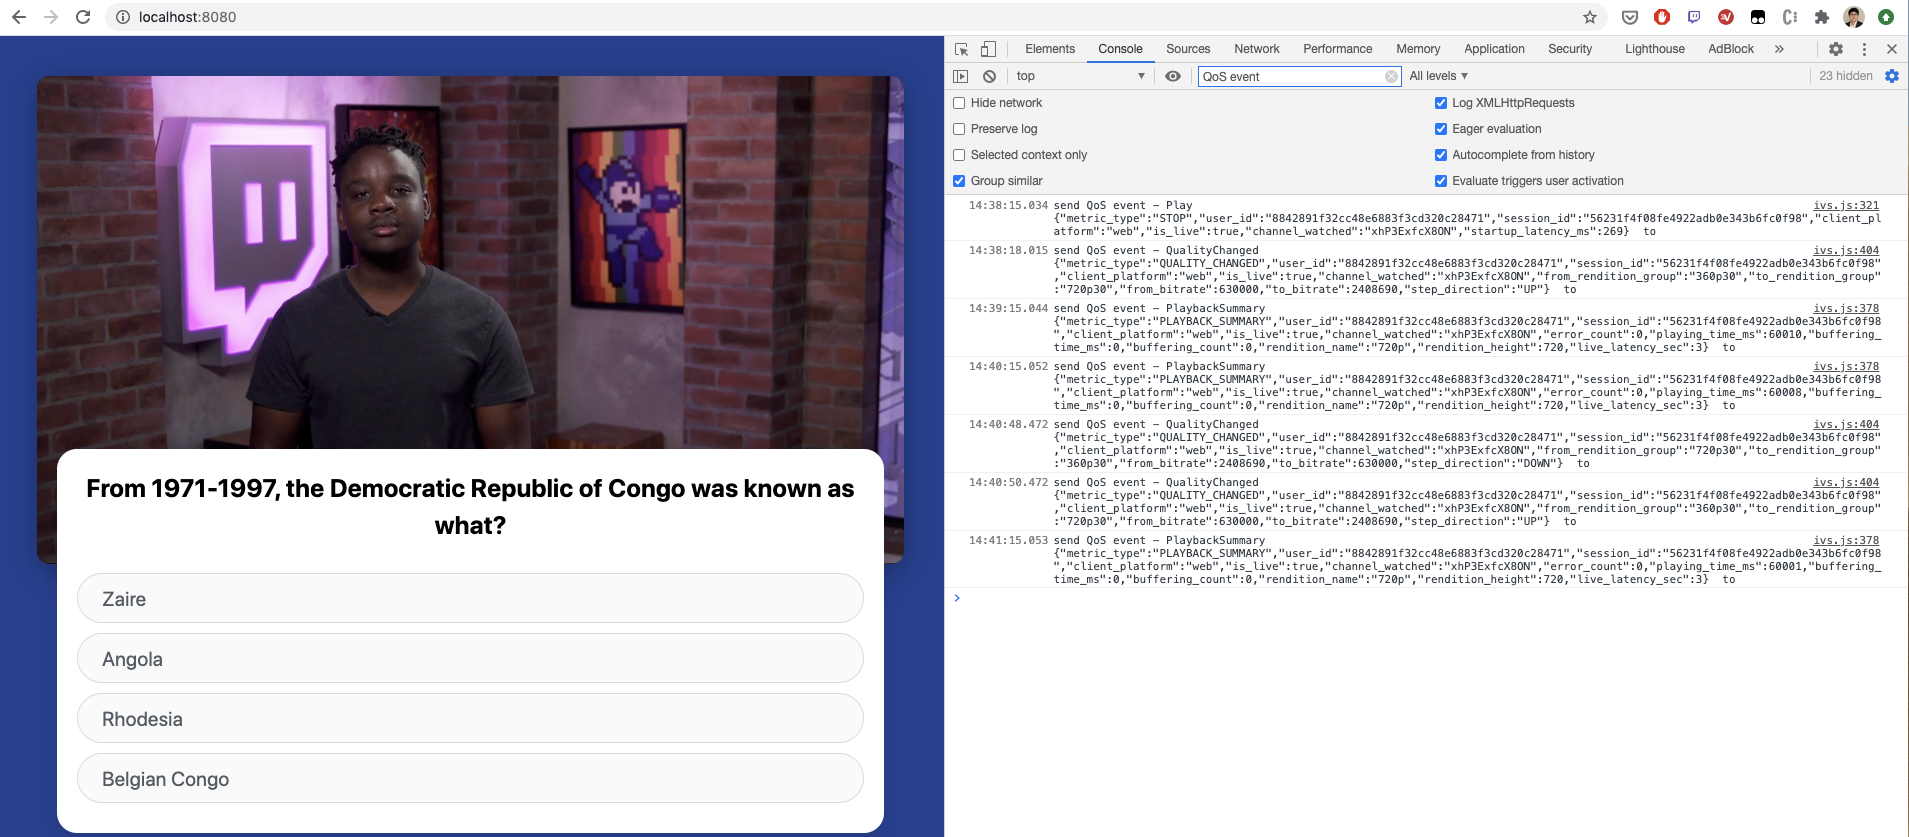
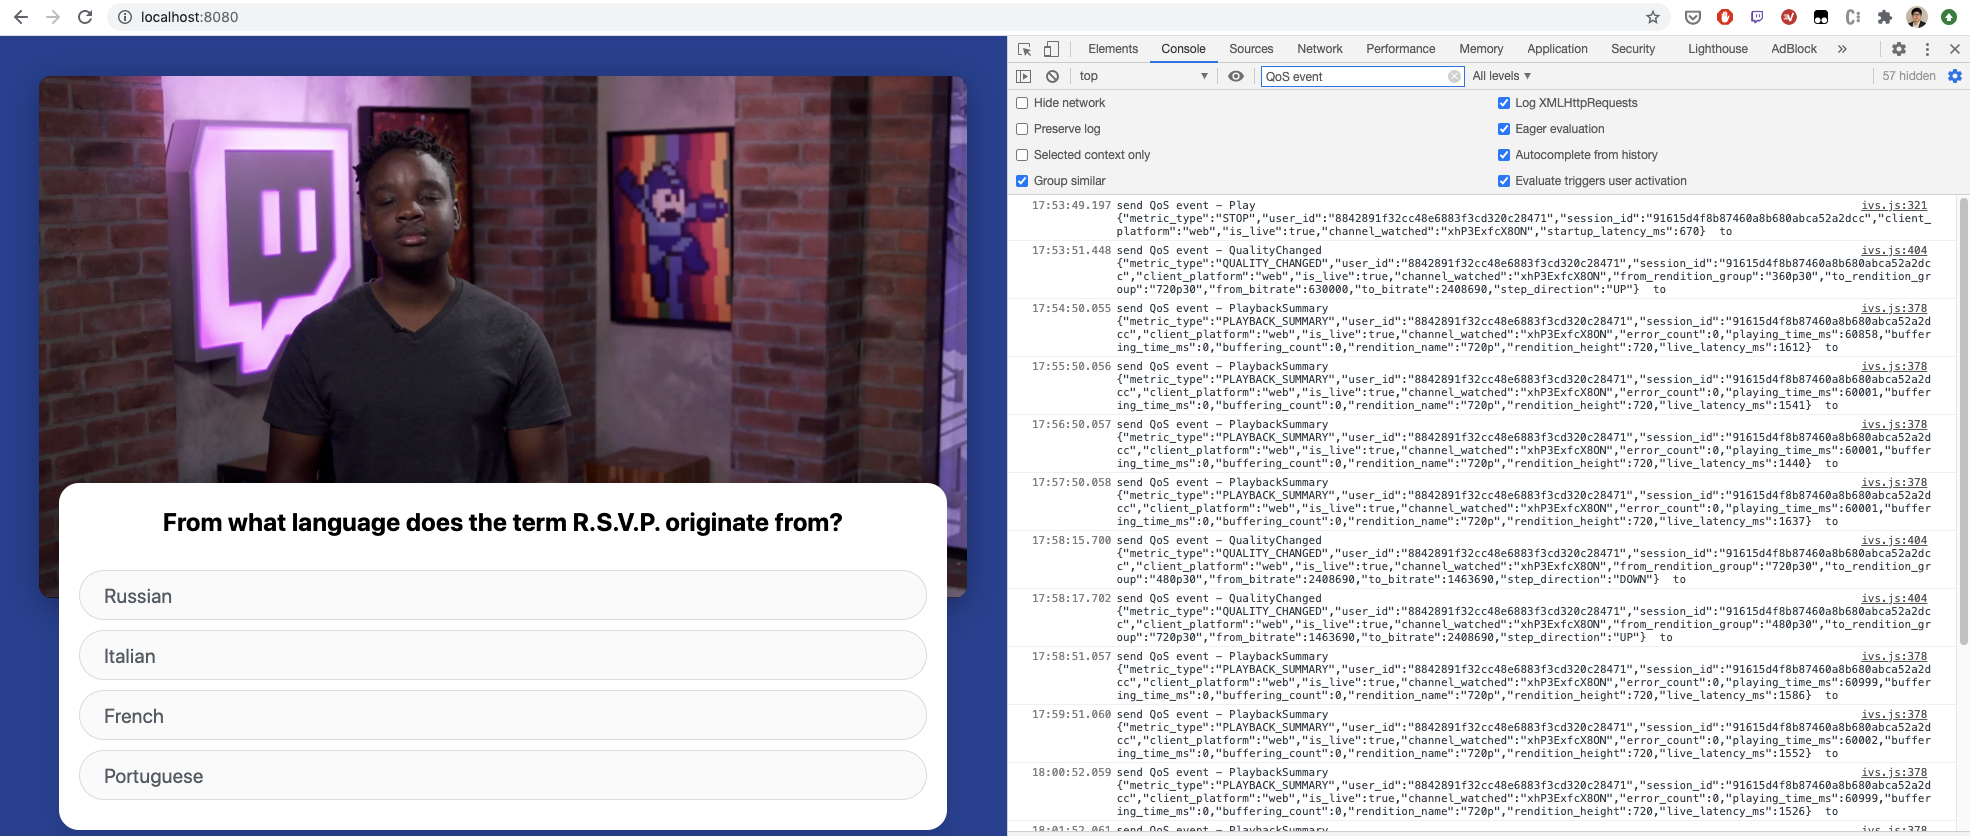
work in progress

diff --git a/web/IVSplayer/js/ivs.js b/web/IVSplayer/js/ivs.js
@@ -366,7 +366,7 @@ const cardInnerEl = document.getElementById("card-inner");
       myJson.rendition_name = lastQuality.name;
       myJson.rendition_height = lastQuality.height;
       if (myJson.is_live) {
-        myJson.live_latency_sec = Math.round(player.getLiveLatency());
+        myJson.live_latency_ms = Math.round(player.getLiveLatency()*1000);
       } else {
         myJson.live_latency_sec = -1;
       }

diff --git a/web/IVSplayer/README.md b/web/IVSplayer/README.md
@@ -238,24 +238,40 @@ Test plan:
 
 - #3 Changing network contiion - Start from throttled 1mbps, then unthrottle the bandwidth after seeing the 2nd QoS event.
 
-Reference test result:
+Reference test result #1:
 
 | Test Case | Which QoS Event | Expected *startupLatencyMs* | *playingTimeMs* | *bufferingTimeMs* | *renditionHeight* | *LiveLatencyMs* | *errorCount* |
 | --------- | --------------- | --------------------------- | --------------- | ----------------- | --------------- | --------------- | ------------ |
 | #1 | 1st       | ~2s | ~58s | ~0s | 720 | ~3s | ~0 |
 |    | Following | 0s  | ~60s | ~0s | 720 | ~3s | ~0 |
+
+Reference screenshots of the console output #1:
+
+![Screenshot of Console Output for Test Case 1](./README_images/section2dot2_2.png)
+
+Reference test result #2:
+
+| Test Case | Which QoS Event | Expected *startupLatencyMs* | *playingTimeMs* | *bufferingTimeMs* | *renditionHeight* | *LiveLatencyMs* | *errorCount* |
+| --------- | --------------- | --------------------------- | --------------- | ----------------- | --------------- | --------------- | ------------ |
 | #2 | 1st       | ~2s | ~58s | ~0s | 720 | ~3s | ~0 |
 |    | 2nd       | 0s  | ~60s | ~0s | 720 | ~3s | ~0 |
 |    | 3rd       | 0s  | >55s | <5s | 360 | <6s | ~0 |
 |    | 4th       | 0s  | ~60s | ~0s | 360 | <6s | ~0 |
+
+Reference screenshots of the console output #2:
+
+![Screenshot of Console Output for Test Case 2](./README_images/section3dot1dot4_2.png)
+
+Reference test result #3:
+
+| Test Case | Which QoS Event | Expected *startupLatencyMs* | *playingTimeMs* | *bufferingTimeMs* | *renditionHeight* | *LiveLatencyMs* | *errorCount* |
+| --------- | --------------- | --------------------------- | --------------- | ----------------- | --------------- | --------------- | ------------ |
 | #3 | 1st       | ~5s | ~55s | ~0s | 360 | <5s | ~0 |
 |    | 2nd       | 0s  | ~60s | ~0s | 360 | <5s | ~0 |
 |    | 3rd       | 0s  | ~60s | ~0s | 720 | <5s | ~0 |
 |    | 4th       | 0s  | ~60s | ~0s | 720 | <5s | ~0 |
 
-Below are the screenshots of the console output for test case 2 & 3, also see section 2.2 for the console output for test case 1.
-
-![Screenshot of Console Output for Test Case 2](./README_images/section3dot1dot4_2.png)
+Reference screenshots of the console output #3:
 
 ![Screenshot of Console Output for Test Case 3](./README_images/section3dot1dot4_3.png)
 
